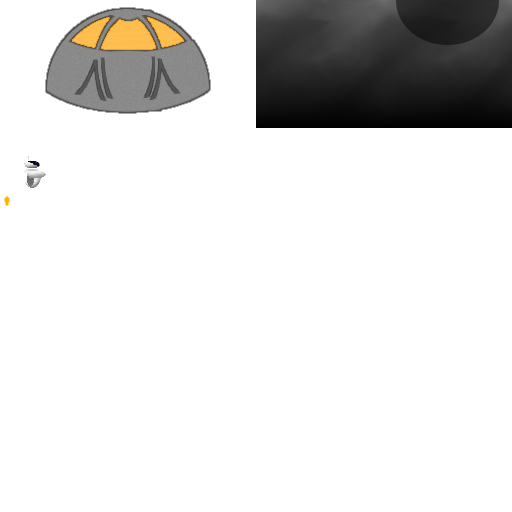
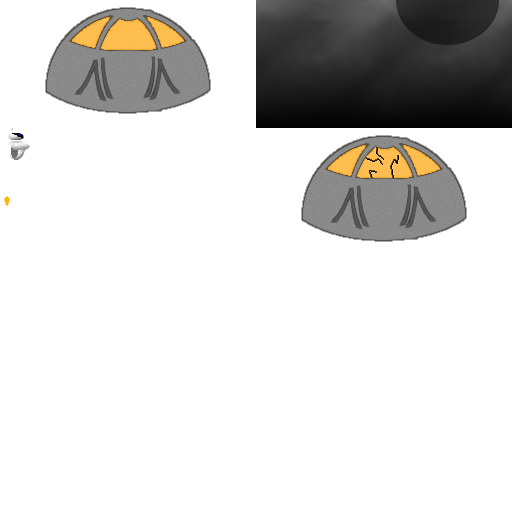
Random changes

Changed region(s): [[0.5625, 0.25, 0.9375, 0.5], [0.0, 0.25, 0.0938, 0.375]]

diff --git a/core/src/main/java/org/bytefire/ld27/core/screen/GameScreen.java b/core/src/main/java/org/bytefire/ld27/core/screen/GameScreen.java
@@ -2,17 +2,17 @@ package org.bytefire.ld27.core.screen;
 
 import com.badlogic.gdx.Gdx;
 import com.badlogic.gdx.graphics.OrthographicCamera;
+import com.badlogic.gdx.graphics.g2d.BitmapFont;
+import com.badlogic.gdx.graphics.g2d.SpriteBatch;
 import com.badlogic.gdx.scenes.scene2d.ui.Image;
 import java.util.Random;
 import org.bytefire.ld27.core.LD27;
 import org.bytefire.ld27.core.asset.Tex;
+import org.bytefire.ld27.core.entities.Base;
 import org.bytefire.ld27.core.entities.Enemy;
 import org.bytefire.ld27.core.entities.Player;
 
 public class GameScreen extends AbstractScreen {
-
-    private Player player;
-    private OrthographicCamera cam;
 
     private static final int STAGE_WIDTH = 3416;
     private static final int STAGE_HEIGHT = 960;
@@ -21,15 +21,32 @@ public class GameScreen extends AbstractScreen {
 
     private final Random rand;
 
+    private float power1;
+    private float power2;
+    private Player player;
+    private OrthographicCamera cam;
+    private SpriteBatch hud;
+    private BitmapFont hudFont;
+
     public GameScreen(LD27 game){
         super(game);
         player = null;
-    rand = new Random(System.nanoTime());
+        rand = new Random(System.nanoTime());
+        power1 = 1000;
+        power2 = 1000;
+        hud = new SpriteBatch();
+        hudFont = new BitmapFont();
     }
 
     @Override
     public void render(float delta){
         super.render(delta);
+
+        hud.begin();
+        hudFont.setColor(0.5F, 0.5F, 1F, 1F);
+        hudFont.draw(hud, "Power: " + Float.toString(power1), 64, 64);
+        hudFont.draw(hud, "Power: " + Float.toString(power2), Gdx.graphics.getWidth() - 164, 64);
+        hud.end();
     }
 
     @Override
@@ -75,6 +92,22 @@ public class GameScreen extends AbstractScreen {
         cam.update();
     }
 
+    public float getPower1(){
+        return power1;
+    }
+
+    public void setPower1(float power){
+        power1 = power;
+    }
+
+    public float getPower2(){
+        return power2;
+    }
+
+    public void setPower2(float power){
+        power2 = power;
+    }
+
     private void addFloor(){
         int width = (int) Math.ceil(stage.getWidth() / Tex.MOON.width);
         for (int i = 0; i < width; i++){
@@ -89,15 +122,15 @@ public class GameScreen extends AbstractScreen {
     }
 
     private void addBases(){
-        Image base1 = new Image(game.getTextureHandler().getRegion(Tex.BASE));
-        base1.setX(0);
-        base1.setY(Tex.BASE.height - 48);
-
-        Image base2 = new Image(game.getTextureHandler().getRegion(Tex.BASE));
-        base2.setX(stage.getWidth() - Tex.BASE.width);
-        base2.setY(Tex.BASE.height - 48);
+        Base base1 = new Base(0, Tex.BASE.height - 48, false, game);
+        Base base2 = new Base((int) (stage.getWidth() - Tex.BASE.width), Tex.BASE.height - 48, true, game);
 
         stage.addActor(base1);
         stage.addActor(base2);
+    }
+
+    @Override
+    public void dispose(){
+        hud.dispose();
     }
 }

diff --git a/core/src/main/java/org/bytefire/ld27/core/entities/Player.java b/core/src/main/java/org/bytefire/ld27/core/entities/Player.java
@@ -33,10 +33,14 @@ public class Player extends Entity {
     public Player(int x, int y, int r, LD27 game){
         super(x, y, game.getTextureHandler().getRegion(Tex.PLAYER), new Rectangle(23, 4, 17, 28), game);
         tex = game.getTextureHandler().getRegion(Tex.PLAYER);
+        if (game.getScreen() instanceof GameScreen){
+            GameScreen screen = ((GameScreen) game.getScreen());
+            screen.setPower1(screen.getPower1() - 25);
+        }
 
         setTouchable(Touchable.enabled);
         setOrigin(32, 16);
-        
+
         angle = new Vector2(r, 0);
 
         shotDelta = 0;
@@ -46,7 +50,7 @@ public class Player extends Entity {
     @Override
     public void act(float delta){
 
-        
+
         calcVelocity(delta);
         calcAngle(delta);
 
@@ -71,7 +75,7 @@ public class Player extends Entity {
         setY(position.y);
 
         setRotation(angle.x);
-        
+
         if (velocity.x < 0 && !flipped){
             tex.flip(true, false);
             setDrawable(new TextureRegionDrawable(tex));
@@ -82,7 +86,7 @@ public class Player extends Entity {
             setDrawable(new TextureRegionDrawable(tex));
             flipped = false;
         }
-        
+
 
         shotDelta += delta;
     }
@@ -101,7 +105,7 @@ public class Player extends Entity {
     }
 
     public void calcAngle(float delta){
-        
+
         if((Gdx.input.isButtonPressed(Buttons.LEFT))) {
             Vector2 mouse = ((AbstractScreen) game.getScreen()).getStage().screenToStageCoordinates(new Vector2(Gdx.input.getX(), Gdx.input.getY()));
             float mAngle = (float) toDegrees(atan((mouse.y - position.y) / (mouse.x - position.x)));
@@ -110,7 +114,7 @@ public class Player extends Entity {
             else mAngle += 180 - 90;
             shoot(delta, mAngle);
         }
-        
+
         /*if (angle.x >= 0) angle.x = angle.x % 360;
          * else angle.x += 360;
          * if (Gdx.input.isKeyPressed(A) && Gdx.input.isKeyPressed(W)){
@@ -161,6 +165,10 @@ public class Player extends Entity {
                 (int) (position.x + origin.x), (int) (position.y + origin.y), (int) angle, true, 
                 game));
             shotDelta = 0;
+            if (game.getScreen() instanceof GameScreen){
+                GameScreen screen = ((GameScreen) game.getScreen());
+                screen.setPower1(screen.getPower1() - 1);
+            }
         }
     }
 

diff --git a/core/src/main/java/org/bytefire/ld27/core/entities/Shot.java b/core/src/main/java/org/bytefire/ld27/core/entities/Shot.java
@@ -11,29 +11,29 @@ import org.bytefire.ld27.core.asset.Tex;
 import org.bytefire.ld27.core.screen.AbstractScreen;
 
 public class Shot extends Entity {
-    
+
     private static final float MAX_VELOCITY = 1024;
-    
+
     private final Vector2 angle;
     private final boolean teamPlayer;
     
     public Shot(int x, int y, int r, boolean teamPlayer, LD27 game){
         super(x, y, game.getTextureHandler().getRegion(Tex.SHOT), game);
-        
+
         setTouchable(Touchable.disabled);
-        
+
         setRotation(r);
-        
+
         velocity.set((float) cos(toRadians(r + 90)) * MAX_VELOCITY, (float) sin(toRadians(r + 90)) * MAX_VELOCITY);
         angle = new Vector2(r, 0);
         this.teamPlayer = teamPlayer;
         
         game.getSfxHandler().play(Sfx.SHOOT);
     }
-    
+
     @Override
     public void act(float delta){
-        
+
         float newx = position.x + (velocity.x * delta);
         float newy = position.y + (velocity.y * delta);
 
@@ -46,15 +46,19 @@ public class Shot extends Entity {
 
         setX(position.x);
         setY(position.y);
-        
+
         Actor hit = ((AbstractScreen)game.getScreen()).getStage().hit(getX(), getY(), true);
         if (hit != null && hit instanceof Enemy && teamPlayer == true){
             hit.remove();
             remove();
         }
-        
+        else if (hit != null && hit instanceof Base){
+            ((Base) hit).takeDamage(5);
+            remove();
+        }
+
         setRotation(angle.x);
-        
+
         if(position.y <= 128) remove();
     }
 }

diff --git a/core/src/main/java/org/bytefire/ld27/core/entities/Enemy.java b/core/src/main/java/org/bytefire/ld27/core/entities/Enemy.java
@@ -19,7 +19,7 @@ import org.bytefire.ld27.core.screen.EndScreen;
 import org.bytefire.ld27.core.screen.GameScreen;
 
 public class Enemy extends Entity{
-    
+
     private static final float MAX_VELOCITY = 128F;
     private static final float FIRE_RATE = 0.75F;
     
@@ -28,25 +28,30 @@ public class Enemy extends Entity{
     
     private float shotDelta;
     private boolean flipped;
-    
+
     public Enemy(int x, int y, int r, LD27 game){
         super(x, y, game.getTextureHandler().getRegion(Tex.PLAYER), new Rectangle(23, 4, 17, 28), game);
         tex = game.getTextureHandler().getRegion(Tex.PLAYER);
-        
+
+        if (game.getScreen() instanceof GameScreen){
+            GameScreen screen = ((GameScreen) game.getScreen());
+            screen.setPower2(screen.getPower2() - 25);
+        }
+
         setTouchable(Touchable.enabled);
-        
+
         setRotation(r);
-        
+
         angle = new Vector2(r, 0);
         
         shotDelta = 0;
         
         //game.getSfxHandler().play(Sfx.SHOOT);
     }
-    
+
     @Override
     public void act(float delta){
-        
+
         seek(delta);
         calcAngle(delta);
         
@@ -64,7 +69,7 @@ public class Enemy extends Entity{
         shotDelta += delta;
         super.act(delta);
     }
-    
+
     public void seek(float delta){
         Player target = ((GameScreen)game.getScreen()).getPlayer();
         if(target.position.dst(position) <= Gdx.graphics.getWidth()/2){

diff --git a/core/src/main/java/org/bytefire/ld27/core/entities/Base.java b/core/src/main/java/org/bytefire/ld27/core/entities/Base.java
@@ -1,0 +1,32 @@
+package org.bytefire.ld27.core.entities;
+
+import com.badlogic.gdx.scenes.scene2d.Touchable;
+import org.bytefire.ld27.core.LD27;
+import org.bytefire.ld27.core.asset.Tex;
+import org.bytefire.ld27.core.screen.EndScreen;
+
+public class Base extends Entity {
+
+    private float health;
+    private boolean player;
+
+    public Base(int x, int y, boolean player, LD27 game){
+        super(x, y, game.getTextureHandler().getRegion(Tex.BASE), game);
+        this.player = player;
+        health = 250;
+        setTouchable(Touchable.enabled);
+    }
+
+    public void takeDamage(float damage){
+        health -= damage;
+        if (health < 0) remove();
+        System.out.println(health);
+    }
+
+    @Override
+    public boolean remove(){
+        if (health < 0) game.setScreen(new EndScreen(player ? "GAME OVER, LOSER" : "YOUR PRIDE WILL BE YOUR DOWNFALL", game));
+        return super.remove();
+    }
+
+}

diff --git a/core/src/main/java/org/bytefire/ld27/core/screen/EndScreen.java b/core/src/main/java/org/bytefire/ld27/core/screen/EndScreen.java
@@ -8,21 +8,18 @@ import org.bytefire.ld27.core.LD27;
 
 public class EndScreen extends AbstractScreen {
 
-    private int drawWidth;
-    private int drawHeight;
+    private String message;
 
-    public EndScreen(LD27 game) {
+    public EndScreen(String message, LD27 game) {
         super(game);
+        this.message = message;
     }
 
     @Override
     public void show() {
         super.show();
 
-        drawWidth = (int) stage.getWidth();
-        drawHeight = (int) stage.getHeight();
-        
-        Label text = new Label("GAME OVER, LOSER", new Label.LabelStyle(new BitmapFont(), new Color(1F, 1F, 1F, 1F)));
+        Label text = new Label(message, new Label.LabelStyle(new BitmapFont(), new Color(1F, 1F, 1F, 1F)));
         //text.set
         stage.addActor(text);
         stage.addAction(fadeIn(0.25F));
